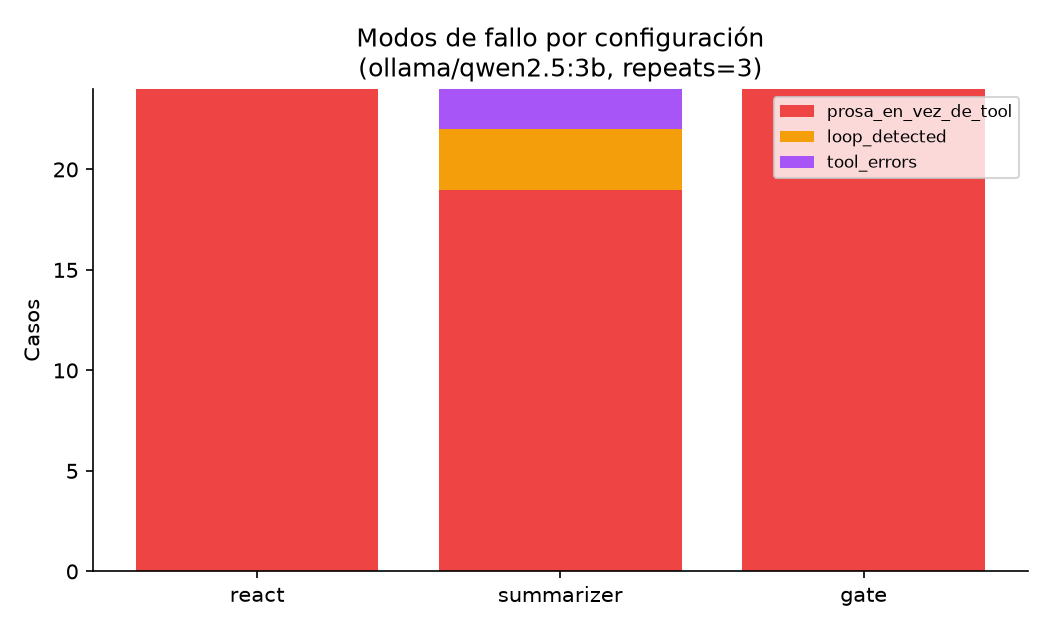
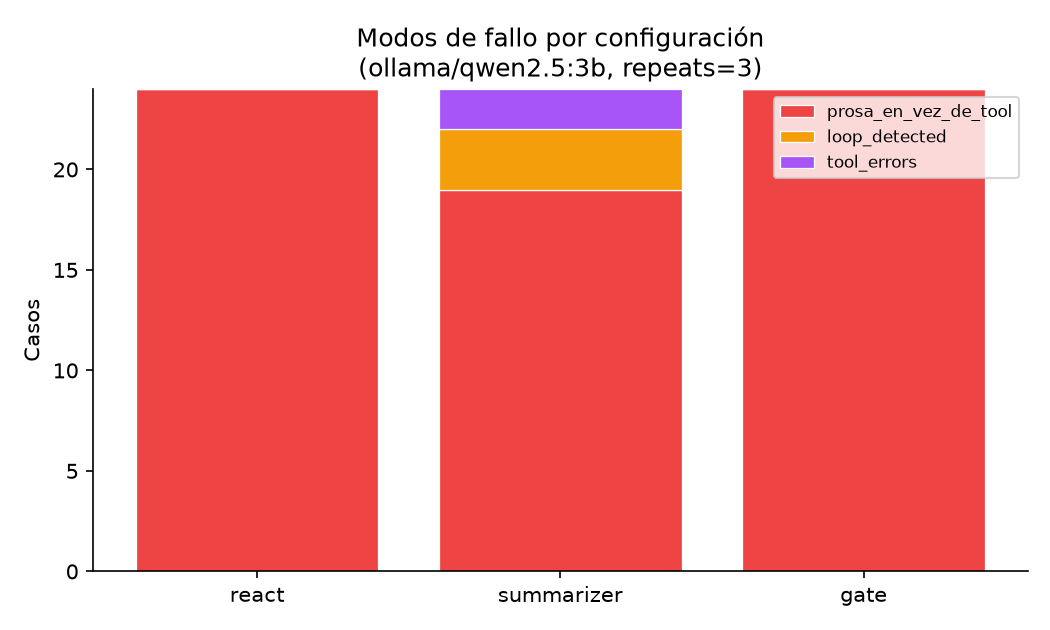
fix(m3-viz): paletas categóricas validadas contra daltonismo (skill dataviz)
Corrí el validador de color del skill de dataviz sobre las paletas:
- Configs (react/summarizer/gate): la anterior azul/ámbar/verde FALLABA la
  separación CVD verde↔ámbar en protanopia (ΔE 3.6). Reemplazada por slots 1-3
  de la paleta categórica validada (blue/orange/aqua) -> PASA.
- Herramientas (look/examine/take/use/go): la anterior (4 tonos de azul)
  FALLABA hasta en visión normal (ΔE 10.7: indistinguibles). Reemplazada por
  slots 1-5 validados -> PASA.
- Modos de fallo (rojo/ámbar/violeta/verde): ya PASABA -> sin cambios.
- Paleta por modelo en la comparación -> orden categórico validado.
- Separador de 2px entre segmentos apilados (mark spec del skill).

Best practice aplicada: el color es computable, se computa (no se estima a ojo).

diff --git a/scripts/generar_graficos_m3.py b/scripts/generar_graficos_m3.py
@@ -28,8 +28,11 @@ import matplotlib.pyplot as plt
 _REPO = Path(__file__).resolve().parent.parent
 _DOCS = _REPO / "docs"
 
-# Paleta por configuración (consistente con los diagramas de M1/M2).
-COLOR = {"react": "#2563eb", "summarizer": "#ca8a04", "gate": "#16a34a"}
+# Paleta por configuración: slots 1-3 de la paleta categórica validada del skill
+# de dataviz (blue/orange/aqua). Validada contra daltonismo con
+# scripts/validate_palette.js — la anterior (azul/ámbar/verde) fallaba la
+# separación CVD verde↔ámbar en protanopia.
+COLOR = {"react": "#2a78d6", "summarizer": "#eb6834", "gate": "#1baf7a"}
 # Colores de los modos de fallo (grises/rojos para lo malo, verde para éxito).
 COLOR_FALLO = {
     "success": "#16a34a",
@@ -92,7 +95,8 @@ def grafico_fallos(by_config: dict, meta: dict) -> None:
     for cat in orden:
         vals = [by_config[c]["failure_breakdown"].get(cat, 0) for c in configs]
         ax.bar(configs, vals, bottom=bottoms, label=cat,
-               color=COLOR_FALLO.get(cat, "#94a3b8"))
+               color=COLOR_FALLO.get(cat, "#94a3b8"),
+               edgecolor="white", linewidth=0.6)
         bottoms = [b + v for b, v in zip(bottoms, vals)]
     ax.set_ylabel("Casos")
     ax.set_title(f"Modos de fallo por configuración\n({meta.get('provider')}/{meta.get('model')}, "
@@ -111,9 +115,9 @@ def grafico_costo(by_config: dict, meta: dict) -> None:
     resumen = [by_config[c].get("avg_memory_tokens") or 0 for c in configs]
 
     fig, ax = plt.subplots(figsize=(7, 4.2))
-    b1 = ax.bar(configs, agente, label="tokens agente", color="#2563eb")
+    b1 = ax.bar(configs, agente, label="tokens agente", color="#2a78d6")
     b2 = ax.bar(configs, resumen, bottom=agente, label="tokens summarizer",
-                color="#f59e0b")
+                color="#eb6834")
     ax.bar_label(b1, fmt="%.0f", fontsize=8, label_type="center")
     for i, r in enumerate(resumen):
         if r:
@@ -132,8 +136,11 @@ def grafico_tools(by_config: dict, meta: dict) -> None:
     """Perfil de uso de herramientas por configuración (apilado por verbo)."""
     configs = _orden_configs(by_config)
     verbos = ["look", "examine", "take", "use", "go"]
-    colores = {"look": "#93c5fd", "examine": "#60a5fa", "take": "#2563eb",
-               "use": "#1e40af", "go": "#7c3aed"}
+    # Slots 1-5 de la paleta categórica validada (blue/orange/aqua/yellow/
+    # magenta). La anterior (4 tonos de azul) fallaba la separación en visión
+    # normal: ni con visión completa se distinguían look/examine.
+    colores = {"look": "#2a78d6", "examine": "#eb6834", "take": "#1baf7a",
+               "use": "#eda100", "go": "#e87ba4"}
 
     fig, ax = plt.subplots(figsize=(7, 4.2))
     bottoms = [0] * len(configs)
@@ -141,7 +148,8 @@ def grafico_tools(by_config: dict, meta: dict) -> None:
         vals = [by_config[c].get("tool_usage", {}).get(v, 0) for c in configs]
         if not any(vals):
             continue
-        ax.bar(configs, vals, bottom=bottoms, label=v, color=colores.get(v, "#94a3b8"))
+        ax.bar(configs, vals, bottom=bottoms, label=v, color=colores.get(v, "#94a3b8"),
+               edgecolor="white", linewidth=0.6)
         bottoms = [b + x for b, x in zip(bottoms, vals)]
     ax.set_ylabel("Tool-calls totales")
     ax.set_title(f"Perfil de uso de herramientas por configuración\n"
@@ -161,8 +169,8 @@ def grafico_latencia_desglosada(by_config: dict, meta: dict) -> None:
     if not any(resumen):
         return  # sin summarizer instrumentado: no aporta
     fig, ax = plt.subplots(figsize=(7, 4.2))
-    ax.bar(configs, agente, label="agente", color="#2563eb")
-    ax.bar(configs, resumen, bottom=agente, label="summarizer", color="#f59e0b")
+    ax.bar(configs, agente, label="agente", color="#2a78d6")
+    ax.bar(configs, resumen, bottom=agente, label="summarizer", color="#eb6834")
     ax.set_ylabel("Latencia p50 (s)")
     ax.set_title(f"Latencia p50 desglosada (agente vs. resumen)\n"
                  f"({meta.get('provider')}/{meta.get('model')})")

diff --git a/scripts/comparar_modelos_m3.py b/scripts/comparar_modelos_m3.py
@@ -30,8 +30,9 @@ import matplotlib.pyplot as plt
 _REPO = Path(__file__).resolve().parent.parent
 _DOCS = _REPO / "docs"
 _CONFIGS = ("react", "summarizer", "gate")
-# Colores por modelo (se asignan por orden de aparición si hay más).
-_PALETA = ["#2563eb", "#ca8a04", "#16a34a", "#db2777", "#0891b2", "#7c3aed"]
+# Colores por modelo: paleta categórica validada del skill de dataviz (el
+# ORDEN de los slots es el mecanismo de seguridad CVD; no reordenar ni ciclar).
+_PALETA = ["#2a78d6", "#eb6834", "#1baf7a", "#eda100", "#e87ba4", "#4a3aa7"]
 
 
 def _cargar_corridas() -> dict[str, dict]:
